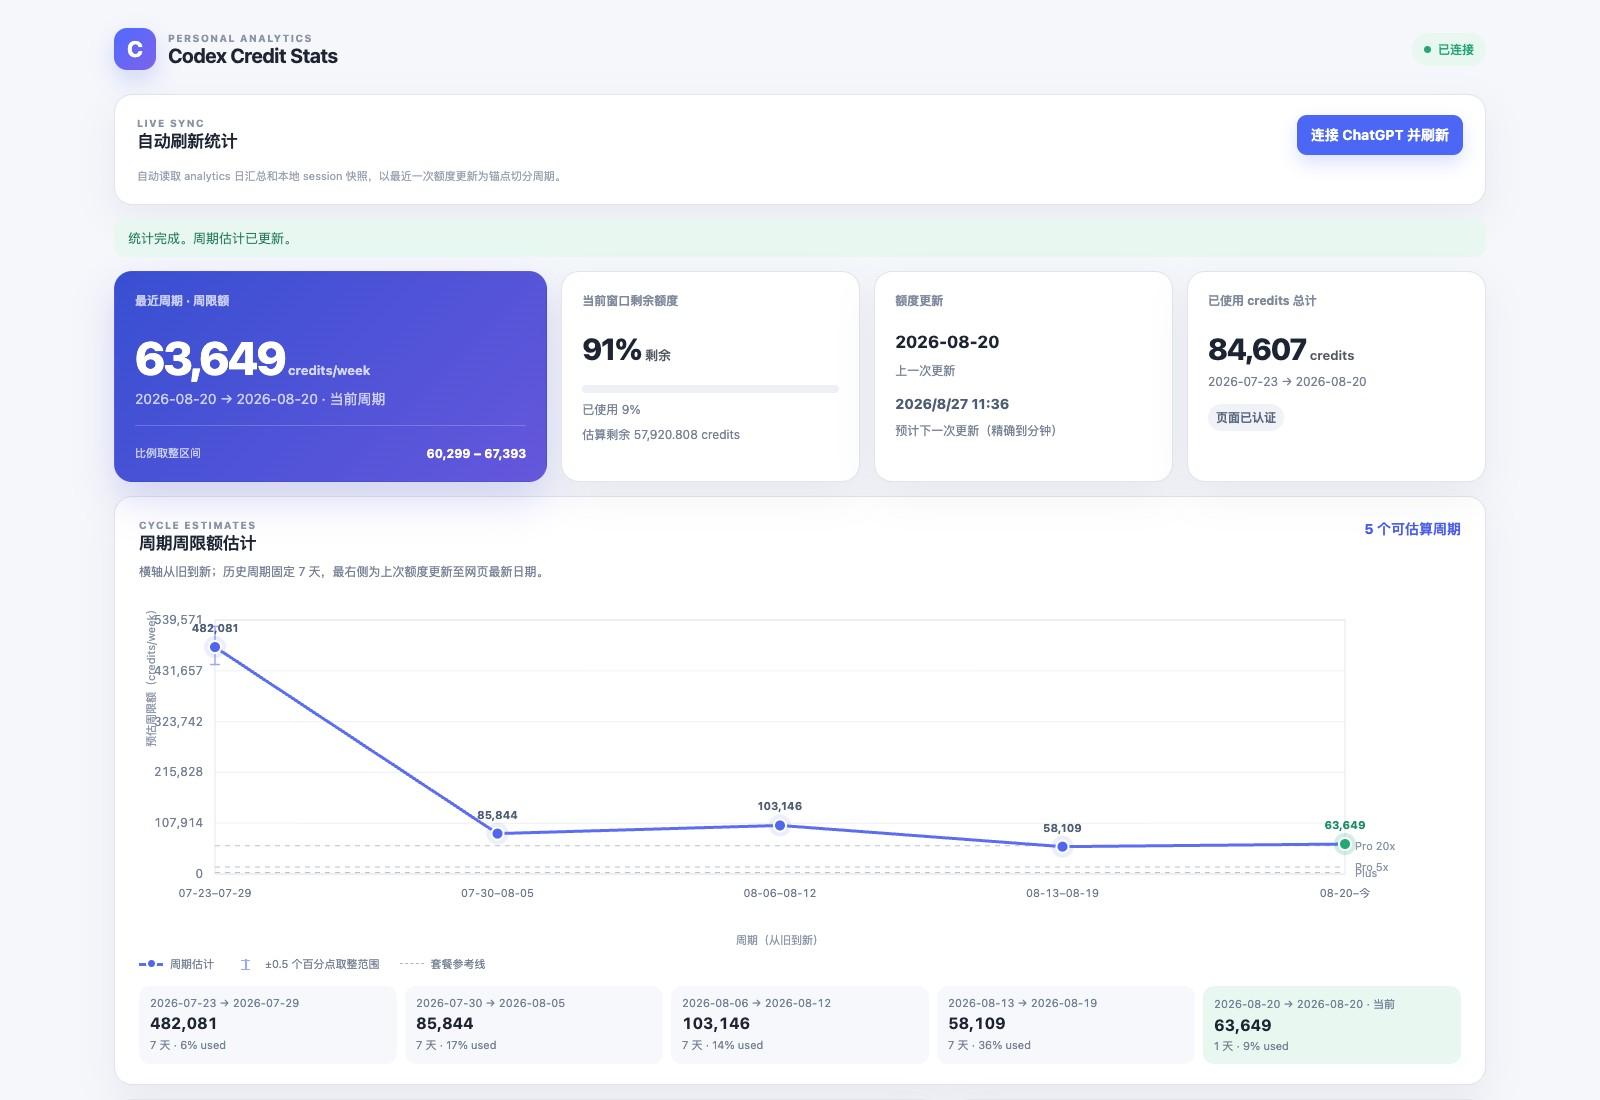
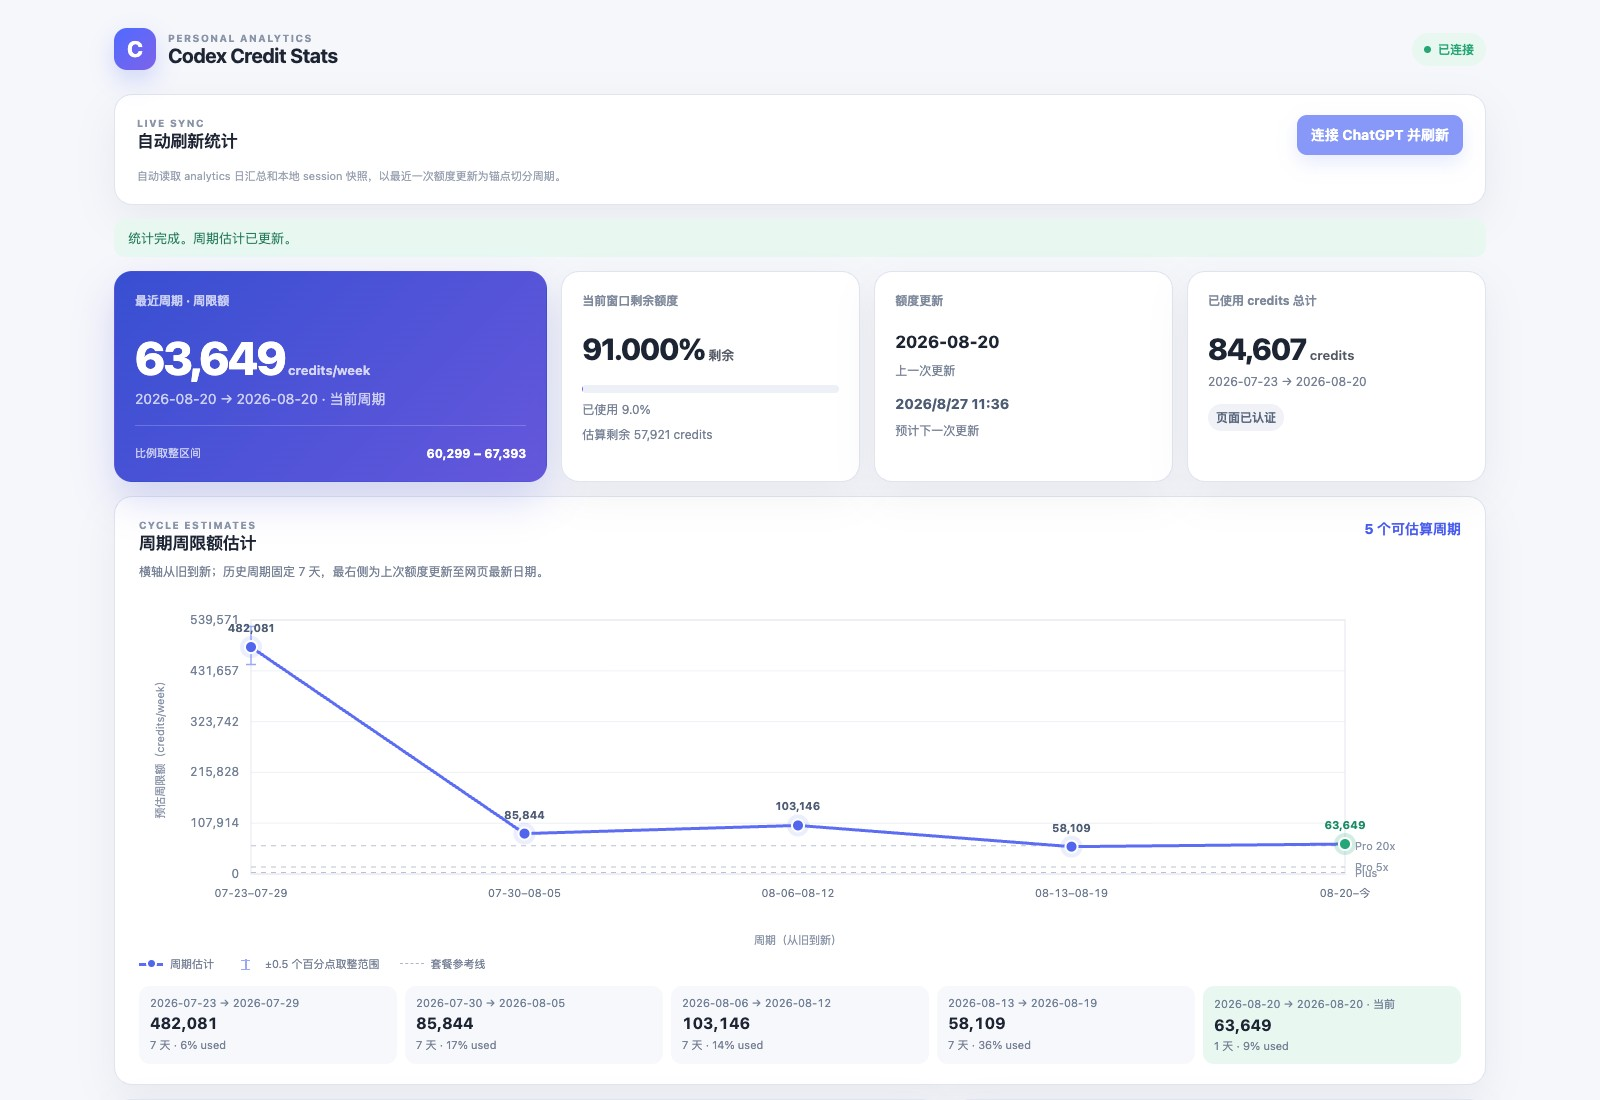
feat: refine quota display and prepare npm release

diff --git a/renderer/renderer.js b/renderer/renderer.js
@@ -8,9 +8,12 @@ function number(value, digits = 0) {
   return Number(value).toLocaleString("zh-CN", { maximumFractionDigits: digits });
 }
 
-function percent(value) {
+function percent(value, digits = 1) {
   if (value == null || !Number.isFinite(Number(value))) return "—";
-  return `${Number(value).toLocaleString("zh-CN", { maximumFractionDigits: 1 })}%`;
+  return `${Number(value).toLocaleString("zh-CN", {
+    minimumFractionDigits: digits,
+    maximumFractionDigits: digits
+  })}%`;
 }
 
 function setStatus(message, mode = "idle") {
@@ -99,7 +102,7 @@ function renderCycleChart(cycles, references = []) {
   empty.style.display = "none";
   const width = Math.max(760, svg.parentElement.clientWidth || 960);
   const height = 360;
-  const margin = { top: 28, right: 116, bottom: 78, left: 76 };
+  const margin = { top: 28, right: 116, bottom: 78, left: 112 };
   const plotWidth = width - margin.left - margin.right;
   const plotHeight = height - margin.top - margin.bottom;
   svg.setAttribute("viewBox", `0 0 ${width} ${height}`);
@@ -145,7 +148,15 @@ function renderCycleChart(cycles, references = []) {
   svg.append(frame);
 
   const axisTitles = svgElement("g", { class: "axis-titles" });
-  const yTitle = svgElement("text", { x: 16, y: margin.top + plotHeight / 2, class: "axis-title", "data-axis": "y", transform: `rotate(-90 16 ${margin.top + plotHeight / 2})` });
+  const yTitle = svgElement("text", {
+    x: 22,
+    y: margin.top + plotHeight / 2,
+    class: "axis-title",
+    "data-axis": "y",
+    "text-anchor": "middle",
+    "dominant-baseline": "middle",
+    transform: `rotate(-90 22 ${margin.top + plotHeight / 2})`
+  });
   yTitle.textContent = "预估周限额（credits/week）";
   const xTitle = svgElement("text", { x: margin.left + plotWidth / 2, y: height - 8, class: "axis-title", "data-axis": "x", "text-anchor": "middle" });
   xTitle.textContent = "周期（从旧到新）";
@@ -274,10 +285,10 @@ function renderReport(report) {
     ? `${latestCycle.fromDate} → ${latestCycle.toDate}${latestCycle.kind === "current" ? " · 当前周期" : ""}`
     : "尚未形成可估算周期";
   $("confidenceRange").textContent = range ? `${number(range.lower, 0)} – ${number(range.upper, 0)}` : "—";
-  $("currentRemaining").textContent = percent(remaining);
+  $("currentRemaining").textContent = percent(remaining, 3);
   $("usageProgress").style.width = `${Math.min(100, Math.max(0, Number(usedPercent) || 0))}%`;
   $("currentUsedLabel").textContent = usedPercent == null ? "已使用 —" : `已使用 ${percent(usedPercent)}`;
-  $("currentRemainingCredits").textContent = remainingCredits == null ? "估算剩余 — credits" : `估算剩余 ${number(remainingCredits, 3)} credits`;
+  $("currentRemainingCredits").textContent = remainingCredits == null ? "估算剩余 — credits" : `估算剩余 ${number(remainingCredits, 0)} credits`;
   $("resetDate").textContent = report.local?.boundaryResetDate || "—";
   $("nextResetDate").textContent = localDateTime(report.local?.currentReset, timeZone);
   $("dailyCredits").textContent = number(report.daily?.creditsInAvailableRange ?? report.daily?.creditsInRequestedRange);

diff --git a/renderer/index.html b/renderer/index.html
@@ -58,7 +58,7 @@
             <div id="resetDate" class="metric-text">—</div>
             <div class="metric-foot">上一次更新</div>
             <div id="nextResetDate" class="metric-text secondary-text">—</div>
-            <div class="metric-foot">预计下一次更新（精确到分钟）</div>
+            <div class="metric-foot">预计下一次更新</div>
           </article>
 
           <article class="metric-card card">

diff --git a/README.ja.md b/README.ja.md
@@ -8,7 +8,7 @@ Codex Credit Stats は、実際の利用状況から Codex の週間クレジッ
 
 ## Credits が重要な理由
 
-Token 数やその他の間接的な指標だけでは、毎月の実際の上限を確認できません。Codex の公式なクォータ表示は現在パーセンテージを示しますが、それだけでは上限そのものの大きさは分かりません。Credits を使うことが、実際の上限を確認する最も直接的で正確な方法です。
+Token 数やその他の間接的な指標だけでは、毎月の実際の上限を確認できません。Codex の公式なクォータ表示は現在パーセンテージを示しますが、それだけでは上限そのものの大きさは分かりません。**Credits を使うことが、実際の上限を確認する最も直接的で正確な方法です。**
 
 ## インストール
 
@@ -43,7 +43,7 @@ npm start
 
 ## 接続の保持
 
-初回の接続に成功すると、ツールは非機密の接続情報をローカルに保存し、専用のローカルブラウザ profile にあるログイン状態を再利用します。次回以降の起動では、まず自動更新を試みます。保存済みの接続が使えない場合は自動試行を終了し、接続ボタンを再び有効にして、再接続を促します。パスワード、cookie、Authorization token はプロジェクトファイルに書き込みません。
+初回の接続に成功すると、ツールは非機密のログイン接続マーカーをローカルの `~/.codex-credit-stats/connection.json` に保存し、専用のローカルブラウザ profile にあるログイン状態を再利用します。次回以降の起動では、まず自動更新を試みます。保存済みの接続が使えない場合は自動試行を終了し、接続ボタンを再び有効にして、再接続を促します。パスワード、cookie、Authorization token はプロジェクトファイルに書き込みません。
 
 ## 読み取る情報
 

diff --git a/README.md b/README.md
@@ -8,7 +8,7 @@ Codex Credit Stats is a local web tool for estimating your Codex weekly credit l
 
 ## Why Credits matter
 
-Token counts and other proxy metrics cannot show your actual monthly allowance. Codex officially exposes the quota as a percentage, which indicates relative usage but not the actual size of the allowance. Credits provide the clearest and most accurate view of the real quota.
+Token counts and other proxy metrics cannot show your actual monthly allowance. Codex officially exposes the quota as a percentage, which indicates relative usage but not the actual size of the allowance. **Credits provide the clearest and most accurate view of the real quota.**
 
 ## Install
 
@@ -43,7 +43,7 @@ The tool helps you understand how many Codex credits your current usage pattern 
 
 ## Connection persistence
 
-After the first successful connection, the app saves a non-sensitive local connection marker and reuses the login state in its dedicated local browser profile. On later starts it first tries to refresh automatically. If the saved connection no longer works, the attempt stops, the connection button becomes available, and the page asks you to reconnect. Passwords, cookies, and authorization tokens are not written to the project files.
+After the first successful connection, the app saves a non-sensitive local connection marker at `~/.codex-credit-stats/connection.json` and reuses the login state in its dedicated local browser profile. On later starts it first tries to refresh automatically. If the saved connection no longer works, the attempt stops, the connection button becomes available, and the page asks you to reconnect. Passwords, cookies, and authorization tokens are not written to the project files.
 
 ## Information it reads
 
